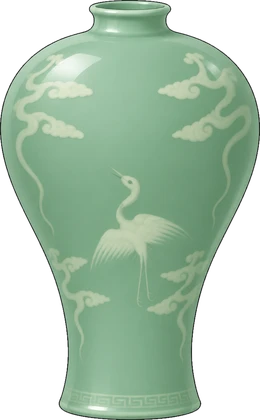
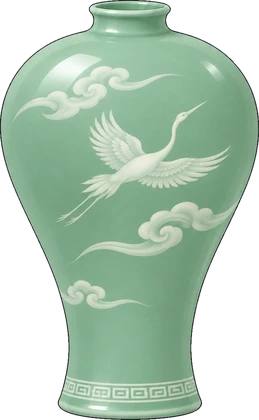
청자 중급 무늬 교체(C안 구름·학) · 도자기 그림 캐시 갱신
Claude-Session: https://claude.ai/code/session_015t7mweLLBzEFYGgsGmysr6

diff --git a/js/pottery.js b/js/pottery.js
@@ -27,11 +27,11 @@ const resample = (arr, n) => Array.from({ length: n }, (_, i) => { const f = (i 
 
 // 깎은 모양 그대로: 무늬 그림을 줄마다 가로로 늘이거나 줄여 내가 빚은 윤곽에 맞춘다(rr: 위→아래 반지름, 본보기 최대 = 1)
 const imgC = {}, loadImg = src => imgC[src] || (imgC[src] = new Promise(ok => { const im = new Image(); im.onload = () => ok(im); im.onerror = () => ok(null); im.src = src; }));
-export async function potWarp(k, pat, rr) { const im = await loadImg(`${PI}${pat}.webp?v=1`); if (!im) return null; const iw = im.naturalWidth, ih = im.naturalHeight, t = PROF[k].r, n = t.length, m = rr.length, cw = Math.ceil(iw * 1.2), c = document.createElement('canvas'); c.width = cw; c.height = ih; const g = c.getContext('2d'), half = iw / 2, cx = cw / 2;
+export async function potWarp(k, pat, rr) { const im = await loadImg(`${PI}${pat}.webp?v=2`); if (!im) return null; const iw = im.naturalWidth, ih = im.naturalHeight, t = PROF[k].r, n = t.length, m = rr.length, cw = Math.ceil(iw * 1.2), c = document.createElement('canvas'); c.width = cw; c.height = ih; const g = c.getContext('2d'), half = iw / 2, cx = cw / 2;
   const at = (a, f) => { const x = f * (a.length - 1), i = Math.floor(x), j = Math.min(a.length - 1, i + 1); return a[i] + (a[j] - a[i]) * (x - i); };
   for (let y = 0; y < ih; y++) { const f = (y + 0.5) / ih, tr = at(t, f), pr = at(rr, f); if (tr < 0.02 || pr < 0.01) continue; g.drawImage(im, half - tr * half, y, tr * half * 2, 1, cx - pr * half, y, pr * half * 2, 1); }
   return c; }
-export function potImg(k, pat, rr, cls) { const el = h('img', { class: cls, src: `${PI}${pat}.webp?v=1`, alt: '' }); if (rr) potWarp(k, pat, rr).then(c => { if (c && el.isConnected) { c.className = cls; el.replaceWith(c); } else if (c) { el.src = c.toDataURL(); } }); return el; }
+export function potImg(k, pat, rr, cls) { const el = h('img', { class: cls, src: `${PI}${pat}.webp?v=2`, alt: '' }); if (rr) potWarp(k, pat, rr).then(c => { if (c && el.isConnected) { c.className = cls; el.replaceWith(c); } else if (c) { el.src = c.toDataURL(); } }); return el; }
 
 // 에픽 퀘스트 「작은아빠의 가마」(복실이): bag.potq 0 받기 전 · 1 받음(공방 가기) · 2 도전 중(분청사기 D급 이상 → 3분 안에 팔기, 기회 3번) · 3 성공(복실이에게 갚기) · 4 끝
 const QBONUS = 60000, QTRIES = 3;
@@ -77,9 +77,9 @@ export function openPottery({ bag, save, earn, demo, onClose }) {
         return h('div', { class: 'pt-post' + (p.done ? (p.sold ? ' sold' : ' cut') : '') }, potImg(p.k, p.img, p.r, 'pt-pimg'), h('div', null, h('b', null, `${p.nm} · ${p.grade}급`), h('small', null, p.done ? (p.sold ? `✅ 팔렸어요 · +${won(p.pay)}` : `처분(${p.dGrade}급 값) · +${won(p.pay)}`) : `⏳ ${Math.floor(s / 60)}:${String(s % 60).padStart(2, '0')} · 팔리면 ${won(p.price)} · 팔릴 확률 ${Math.round(FINAL.find(g => g[1] === p.grade)[2] * 100)}%`))); })] : []; };
   function home() { scr = 'home'; const now = Date.now(), left = DAY_MAX - P.n; postBox = h('div', { class: 'pt-posts' }, ...postsEl());
     body.replaceChildren(
-      h('div', { class: 'pt-keeper' }, h('img', { src: `${IMG}k-pottery.webp?v=1`, alt: '' }), h('i', null, '도암')),
+      h('div', { class: 'pt-keeper' }, h('img', { src: `${IMG}k-pottery.webp?v=2`, alt: '' }), h('i', null, '도암')),
       say(P.met ? ['흙은 손을 기억하오. 오늘도 정성껏 빚어 보시오.', '서두르면 흙이 먼저 알아차리지요. 허허.', '가마는 거짓말을 하지 않소이다.'][now % 3] : '오호… 그 손끝, 보통 섬세한 손이 아니시구려. 손이 섬세한 황제폐하라면 최고의 제자가 될 수 있겠소. 오늘부터 내 수제자로 들이겠소이다!'),
-      h('div', { class: 'pt-mats' }, ...Object.entries(POT_MAT).map(([k, [n]]) => h('span', { class: has(k) ? '' : 'no' }, h('img', { src: `${IMG}i-${k}.webp?v=1`, alt: '' }), `${n} ${bag[k] || 0}`))),
+      h('div', { class: 'pt-mats' }, ...Object.entries(POT_MAT).map(([k, [n]]) => h('span', { class: has(k) ? '' : 'no' }, h('img', { src: `${IMG}i-${k}.webp?v=2`, alt: '' }), `${n} ${bag[k] || 0}`))),
       ...questBox(),
       h('small', { class: 'pt-dim' }, '재료는 부메랑상회에서 사요 · 도자기 하나에 흙 1 · 유약 1 · 안료 1'),
       h('button', { class: 'btn primary pt-go', disabled: left <= 0, onClick: pick }, left > 0 ? `🏺 도자기 빚기 (오늘 ${left}번 남음)` : '오늘은 다 빚었어요 · 내일 다시 와요'),
@@ -111,15 +111,15 @@ export function openPottery({ bag, save, earn, demo, onClose }) {
   const needOf = k => [[KINDS[k].clay, 1], ['glaze', 1], ['pigment', 1]], canMake = k => needOf(k).every(([m, n]) => (bag[m] || 0) >= n) && P.n < DAY_MAX;
   function matBox(k) { const ok = canMake(k);
     return h('div', { class: 'pt-need' + (ok ? ' ok' : ' no') }, h('div', { class: 'pt-needh' }, h('b', null, `${KINDS[k].name} 재료`), h('em', null, ok ? '✅ 만들 수 있음' : '⛔ 만들 수 없음')),
-      ...needOf(k).map(([m, n]) => { const have = bag[m] || 0, g = have >= n; return h('div', { class: 'pt-needr' + (g ? ' g' : '') }, h('img', { src: `${IMG}i-${m}.webp?v=1`, alt: '' }), h('span', null, POT_MAT[m][0]), h('b', null, `${have} / ${n}`), h('i', null, g ? '✔' : `부족 · ${POT_MAT[m][1].toLocaleString()}코인`)); }),
+      ...needOf(k).map(([m, n]) => { const have = bag[m] || 0, g = have >= n; return h('div', { class: 'pt-needr' + (g ? ' g' : '') }, h('img', { src: `${IMG}i-${m}.webp?v=2`, alt: '' }), h('span', null, POT_MAT[m][0]), h('b', null, `${have} / ${n}`), h('i', null, g ? '✔' : `부족 · ${POT_MAT[m][1].toLocaleString()}코인`)); }),
       !ok && h('small', null, P.n >= DAY_MAX ? '오늘은 3번 다 빚었어요 · 내일 다시 와요' : '모자란 재료는 부메랑상회에서 사 오세요')); }
   function matInfo(k) { const K = KINDS[k], ok = canMake(k); sfx(ok ? 'pop' : 'bad');
-    modal({ title: `🏺 ${K.name} 빚기`, body: h('div', { class: 'pt-mi' }, h('img', { class: 'pt-miimg', src: `${PI}${k}0.webp?v=1`, alt: '' }), say(`${K.name}를 빚으려면 ${POT_MAT[K.clay][0]} 1개, 유약 1개, 안료 1개를 가져오시오.`), matBox(k), ok && h('p', { class: 'pt-modeinfo' }, h('b', null, '👀 틀 보며 빚기는 B급이 최상입니다.'), h('br'), '✋ 틀 없이 빚어야 S급까지 받을 수 있어요.')),
+    modal({ title: `🏺 ${K.name} 빚기`, body: h('div', { class: 'pt-mi' }, h('img', { class: 'pt-miimg', src: `${PI}${k}0.webp?v=2`, alt: '' }), say(`${K.name}를 빚으려면 ${POT_MAT[K.clay][0]} 1개, 유약 1개, 안료 1개를 가져오시오.`), matBox(k), ok && h('p', { class: 'pt-modeinfo' }, h('b', null, '👀 틀 보며 빚기는 B급이 최상입니다.'), h('br'), '✋ 틀 없이 빚어야 S급까지 받을 수 있어요.')),
       actions: ok && bag.potq === 2 && k === 'b' ? [{ label: '다음에' }, { label: '👀 틀 보며 빚기 (퀘스트)', primary: true, onClick: c => { if (typeof c === 'function') c(); start(k, true); } }] : ok ? [{ label: '👀 틀 보며 빚기 · 최고 B급', onClick: c => { if (typeof c === 'function') c(); start(k, true); } }, { label: '✋ 틀 없이 빚기 · 최고 S급', primary: true, onClick: c => { if (typeof c === 'function') c(); start(k, false); } }] : [{ label: '알겠어요', primary: true }] }); }
 
   function pick() { scr = 'pick';
     body.replaceChildren(say('무엇을 빚겠소? 눌러 보면 필요한 재료를 알려 주겠소.'), h('div', { class: 'pt-kinds' }, ...ORDER.map(k => { const K = KINDS[k], ok = canMake(k);
-      return h('button', { class: 'pt-kind' + (ok ? '' : ' off'), onClick: () => matInfo(k) }, h('img', { src: `${PI}${k}0.webp?v=1`, alt: '' }), h('b', null, K.name), h('small', null, `${POT_MAT[K.clay][0]} ${bag[K.clay] || 0} · 유약 ${bag.glaze || 0} · 안료 ${bag.pigment || 0}`), h('em', { class: ok ? 'ok' : '' }, ok ? '만들 수 있음' : '만들 수 없음')); })), h('button', { class: 'btn', onClick: home }, '← 돌아가기')); }
+      return h('button', { class: 'pt-kind' + (ok ? '' : ' off'), onClick: () => matInfo(k) }, h('img', { src: `${PI}${k}0.webp?v=2`, alt: '' }), h('b', null, K.name), h('small', null, `${POT_MAT[K.clay][0]} ${bag[K.clay] || 0} · 유약 ${bag.glaze || 0} · 안료 ${bag.pigment || 0}`), h('em', { class: ok ? 'ok' : '' }, ok ? '만들 수 있음' : '만들 수 없음')); })), h('button', { class: 'btn', onClick: home }, '← 돌아가기')); }
 
   function start(k, guide) { if (guide || (bag.potq === 2 && k === 'b')) toast('👀 틀 보며 빚기는 B급이 최상입니다', 2600); const K = KINDS[k]; if (!(has(K.clay) && has('glaze') && has('pigment'))) return toast('재료가 모자라요 · 부메랑상회에서 사요', 2000); if (P.n >= DAY_MAX) return toast('오늘은 3번 다 빚었어요', 1800);
     bag[K.clay]--; bag.glaze--; bag.pigment--; P.n++; save(); busy = true;
@@ -128,7 +128,7 @@ export function openPottery({ bag, save, earn, demo, onClose }) {
   // ───── 1. 흙 빚기: 1분 동안 빠르게 도는 흙덩이를 손끝으로 깎아 위쪽 본보기 모양에 맞춘다 ─────
   function shape(job) { scr = 'shape'; const K = KINDS[job.k], pr = PROF[job.k], N = 96, tgt = resample(pr.r, N);
     const cv = h('canvas', { class: 'pt-cv' }), time = h('b', { class: 'pt-time' }, `${SHAPE_SEC}`), note = h('small', { class: 'pt-note' }, '본보기 모양을 잘 봐 두세요…'), done = h('button', { class: 'btn primary', disabled: true }, '✋ 다 빚었어요');
-    body.replaceChildren(h('div', { class: 'pt-shapetop' }, h('div', { class: 'pt-ex' }, h('img', { src: `${PI}${job.k}0.webp?v=1`, alt: '' }), h('small', null, '본보기')), h('div', null, h('b', null, `${K.name} 빚기 · ${job.guide ? '👀 틀 보며(최고 B급)' : '✋ 틀 없이(최고 S급)'}`), note), time), cv, done);
+    body.replaceChildren(h('div', { class: 'pt-shapetop' }, h('div', { class: 'pt-ex' }, h('img', { src: `${PI}${job.k}0.webp?v=2`, alt: '' }), h('small', null, '본보기')), h('div', null, h('b', null, `${K.name} 빚기 · ${job.guide ? '👀 틀 보며(최고 B급)' : '✋ 틀 없이(최고 S급)'}`), note), time), cv, done);
     const dpr = Math.min(2, window.devicePixelRatio || 1), CW = Math.min(380, body.clientWidth - 8), CH = Math.round(Math.min(window.innerHeight * 0.56, 470)); cv.width = CW * dpr; cv.height = CH * dpr; cv.style.width = CW + 'px'; cv.style.height = CH + 'px'; const g = cv.getContext('2d'); g.scale(dpr, dpr);
     const top = 26, bot = CH - 58, Hc = bot - top, maxR = Math.min(CW * 0.42, Hc / (2 * pr.ar)), rowH = Hc / N, R0 = maxR * 1.14, minR = 4, tip = 5.5;
     const r = Array.from({ length: N }, (_, i) => R0 * (i < 2 ? 0.97 : 1)), T = tgt.map(v => v * maxR);
@@ -175,7 +175,7 @@ export function openPottery({ bag, save, earn, demo, onClose }) {
 
   // ───── 2. 유약: 한 번에 끝 ─────
   function glaze(job) { scr = 'glaze'; const K = KINDS[job.k], pot = h('div', { class: 'pt-pot', html: shapeSvg(job, [K.c0, K.c1]) }), btn = h('button', { class: 'btn primary pt-go pt-pour' }, '🫙 유약 붓기');
-    const jar = h('img', { class: 'pt-dish pt-jar', src: `${IMG}i-glaze.webp?v=1`, alt: '' }), stream = h('i', { class: 'pt-stream' }), fx = h('div', { class: 'pt-pfx' }), ribbon = h('div', { class: 'pt-ribbon' }), hint = h('p', { class: 'pt-phint' }, '유약을 부으면 흙이 유리옷을 입어요');
+    const jar = h('img', { class: 'pt-dish pt-jar', src: `${IMG}i-glaze.webp?v=2`, alt: '' }), stream = h('i', { class: 'pt-stream' }), fx = h('div', { class: 'pt-pfx' }), ribbon = h('div', { class: 'pt-ribbon' }), hint = h('p', { class: 'pt-phint' }, '유약을 부으면 흙이 유리옷을 입어요');
     const stage = h('div', { class: 'pt-pstage s' + job.k }, h('i', { class: 'pt-rays' }), h('i', { class: 'pt-spot' }), h('i', { class: 'pt-stand' }), h('div', { class: 'pt-potw' }, pot), stream, jar, fx, ribbon);
     body.replaceChildren(say('유약은 도자기의 옷이오. 고루 입혀 주시오.'), stage, hint, btn);
     const twinkle = n => { for (let i = 0; i < n; i++) { const t = h('i', { class: 'pt-twk', style: { left: 22 + Math.random() * 56 + '%', top: 18 + Math.random() * 62 + '%', animationDelay: Math.random() * 0.8 + 's', '--s': 0.6 + Math.random() * 0.9 } }, '✦'); fx.append(t); setTimeout(() => t.remove(), 2600); } };
@@ -189,7 +189,7 @@ export function openPottery({ bag, save, earn, demo, onClose }) {
   function kiln(job) { scr = 'kiln'; const K = KINDS[job.k], [Z0, Z1] = K.zone, ROUNDS = [{ nm: '초벌', sub: '천천히 오르는 불', dur: 3000, sh: -18, t0: 600, tk: 4 }, { nm: '중벌', sub: '빠르게 치솟는 불', dur: 2400, sh: 0, t0: 900, tk: 4.5 }], got = [];
     const fill = h('i', { class: 'pt-gfill' }), needle = h('i', { class: 'pt-gneedle' }), sweetEl = h('i', { class: 'pt-gsweet' }), zone = h('i', { class: 'pt-gzone' }, sweetEl), gauge = h('div', { class: 'pt-gauge' }, zone, fill, needle);
     const glow = h('div', { class: 'pt-kilnglow' }), temp = h('b', { class: 'pt-temp' }), tag = h('b', { class: 'pt-ktag' }), steps = h('div', { class: 'pt-ksteps' }), btn = h('button', { class: 'btn primary pt-go pt-out', disabled: true }, '🧤 꺼내기!'), tip = say(''), res = h('div', { class: 'pt-kres' });
-    body.replaceChildren(tip, h('div', { class: 'pt-kiln' }, h('img', { src: `${PI}kiln.webp?v=1`, alt: '' }), glow, temp, tag), steps, gauge, h('small', { class: 'pt-dim' }, '게이지가 오르는 동안 한 번만 누를 수 있어요 · 노란 칸 안, 빨간 줄에 가까울수록 높은 점수'), btn, res);
+    body.replaceChildren(tip, h('div', { class: 'pt-kiln' }, h('img', { src: `${PI}kiln.webp?v=2`, alt: '' }), glow, temp, tag), steps, gauge, h('small', { class: 'pt-dim' }, '게이지가 오르는 동안 한 번만 누를 수 있어요 · 노란 칸 안, 빨간 줄에 가까울수록 높은 점수'), btn, res);
     const drawSteps = k => steps.replaceChildren(...ROUNDS.map((R, n) => h('span', { class: n < k ? 'done' : n === k ? 'on' : '' }, `${n + 1}. ${R.nm}${got[n] != null ? ` · ${got[n]}점` : ''}`)));
     const run = k => { const R = ROUNDS[k], z0 = Z0 + R.sh, z1 = Z1 + R.sh, mid = (z0 + z1) / 2, half = (z1 - z0) / 2, sweet = job.guide && k === 1 ? 1 : 1.6; /* 빨간 칸: 기본 ±1.6 · 틀 보며 빚기의 중벌만 ±1 */
       zone.style.left = z0 + '%'; zone.style.width = z1 - z0 + '%'; sweetEl.style.left = ((mid - sweet - z0) / (z1 - z0)) * 100 + '%'; sweetEl.style.width = ((sweet * 2) / (z1 - z0)) * 100 + '%'; needle.classList.remove('stop'); fill.style.width = needle.style.left = '0%'; glow.style.opacity = '.2';
@@ -206,12 +206,12 @@ export function openPottery({ bag, save, earn, demo, onClose }) {
 
   // ───── 4. 안료: 무늬는 순전히 운 ─────
   function paint(job) { scr = 'paint'; const K = KINDS[job.k], rr = resample(job.r, 48).map(v => Math.round(v * 100) / 100); job.rr = rr;
-    const urls = {}, img = h('img', { class: 'pt-final', src: `${PI}${job.k}0.webp?v=1`, alt: '' });
+    const urls = {}, img = h('img', { class: 'pt-final', src: `${PI}${job.k}0.webp?v=2`, alt: '' });
     K.pats.forEach(p => potWarp(job.k, p[0], rr).then(c => { if (c) { urls[p[0]] = c.toDataURL(); if (p[0] === job.k + '0' && !job.pat) img.src = urls[p[0]]; } })); /* 내가 깎은 모양 그대로 */
-    const show = id => { img.src = urls[id] || `${PI}${id}.webp?v=1`; };
-    const fx = h('div', { class: 'pt-pfx' }), rays = h('i', { class: 'pt-rays' }), dish = h('img', { class: 'pt-dish', src: `${IMG}i-pigment.webp?v=1`, alt: '' }), ribbon = h('div', { class: 'pt-ribbon' }), hint = h('p', { class: 'pt-phint' }, '어떤 무늬가 나올까요? 붓는 순간 하늘이 정해요');
+    const show = id => { img.src = urls[id] || `${PI}${id}.webp?v=2`; };
+    const fx = h('div', { class: 'pt-pfx' }), rays = h('i', { class: 'pt-rays' }), dish = h('img', { class: 'pt-dish', src: `${IMG}i-pigment.webp?v=2`, alt: '' }), ribbon = h('div', { class: 'pt-ribbon' }), hint = h('p', { class: 'pt-phint' }, '어떤 무늬가 나올까요? 붓는 순간 하늘이 정해요');
     const stage = h('div', { class: 'pt-pstage s' + job.k }, rays, h('i', { class: 'pt-spot' }), h('i', { class: 'pt-stand' }), h('div', { class: 'pt-potw' }, img), dish, fx, ribbon);
-    const odds = h('div', { class: 'pt-odds' }, ...K.pats.map(p => h('span', { class: 't' + p[2] }, h('img', { src: `${PI}${p[0]}.webp?v=1`, alt: '' }), h('b', null, PAT_NAME[p[2]]), h('small', null, `${Math.round(p[3] * 100)}% · +${(PAT_BONUS[p[2]] / 1000).toLocaleString()}천`))));
+    const odds = h('div', { class: 'pt-odds' }, ...K.pats.map(p => h('span', { class: 't' + p[2] }, h('img', { src: `${PI}${p[0]}.webp?v=2`, alt: '' }), h('b', null, PAT_NAME[p[2]]), h('small', null, `${Math.round(p[3] * 100)}% · +${(PAT_BONUS[p[2]] / 1000).toLocaleString()}천`))));
     const btn = h('button', { class: 'btn primary pt-go pt-pour' }, '🎨 안료 붓기');
     body.replaceChildren(say('안료는 붓는 순간 하늘이 정하오. 마음을 비우시오.'), stage, hint, odds, btn);
     const COLS = ['#2F5DC8', '#8B4A22', '#C8323C', '#2E9E7A', '#E8B83A'];
